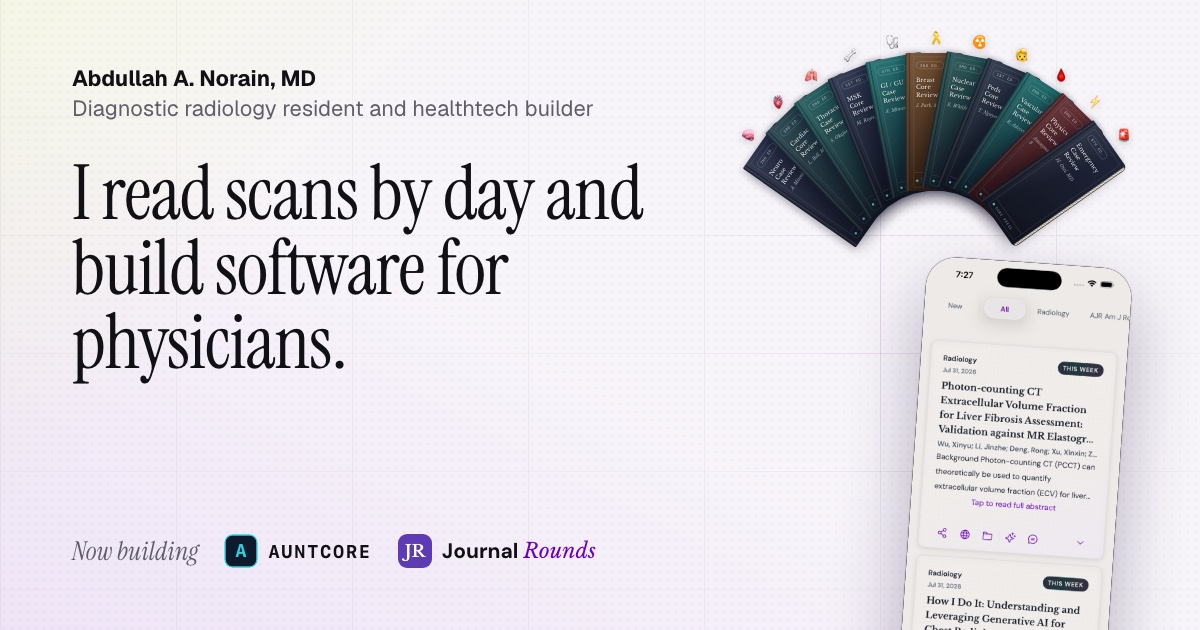
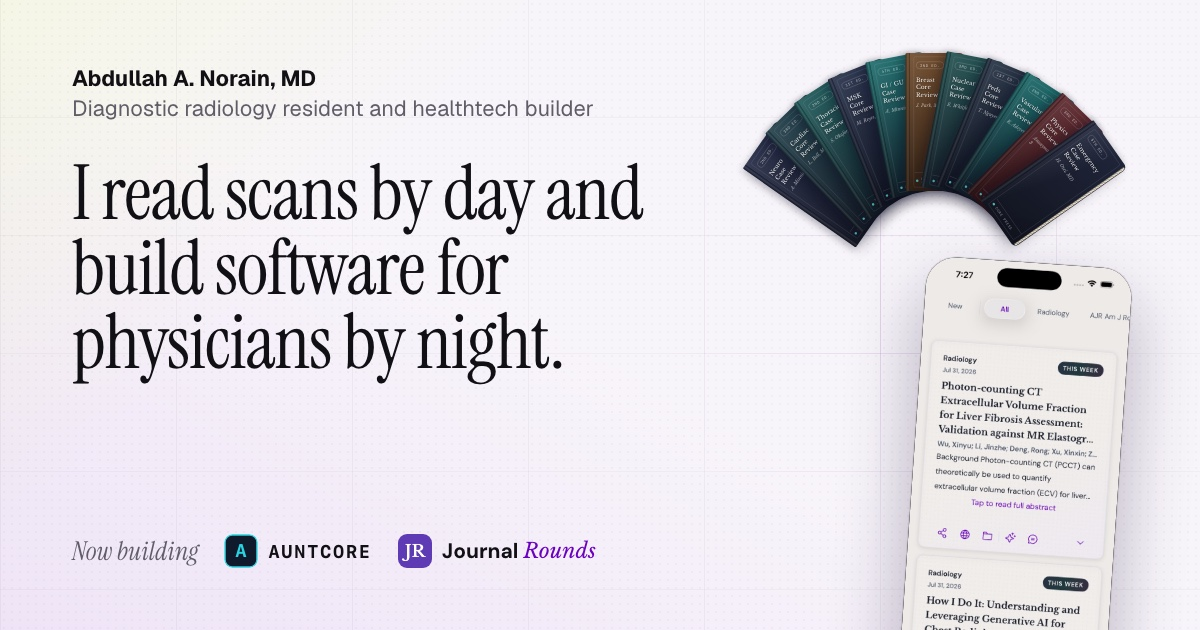
Say "by night" in the statement and drop emoji from the book fan

diff --git a/index.html b/index.html
@@ -19,12 +19,12 @@
 <meta property="og:locale" content="en_US">
 <meta property="og:title" content="Abdullah A. Norain, MD">
 <meta property="og:description" content="Diagnostic radiology resident and healthtech builder. Now building AuntCore and Journal Rounds.">
-<meta property="og:image" content="https://abdullahnorain.github.io/assets/og-image.jpg">
-<meta property="og:image:secure_url" content="https://abdullahnorain.github.io/assets/og-image.jpg">
+<meta property="og:image" content="https://abdullahnorain.github.io/assets/og-image.jpg?v=2">
+<meta property="og:image:secure_url" content="https://abdullahnorain.github.io/assets/og-image.jpg?v=2">
 <meta property="og:image:type" content="image/jpeg">
 <meta property="og:image:width" content="1200">
 <meta property="og:image:height" content="630">
-<meta property="og:image:alt" content="Abdullah A. Norain, MD. &quot;I read scans by day and build software for physicians.&quot; Now building AuntCore and Journal Rounds.">
+<meta property="og:image:alt" content="Abdullah A. Norain, MD. &quot;I read scans by day and build software for physicians by night.&quot; Now building AuntCore and Journal Rounds.">
 <meta property="profile:first_name" content="Abdullah">
 <meta property="profile:last_name" content="Norain">
 <meta name="twitter:card" content="summary_large_image">
@@ -32,8 +32,8 @@
 <meta name="twitter:creator" content="@AbdullahNorain">
 <meta name="twitter:title" content="Abdullah A. Norain, MD">
 <meta name="twitter:description" content="Diagnostic radiology resident and healthtech builder. Now building AuntCore and Journal Rounds.">
-<meta name="twitter:image" content="https://abdullahnorain.github.io/assets/og-image.jpg">
-<meta name="twitter:image:alt" content="Abdullah A. Norain, MD. &quot;I read scans by day and build software for physicians.&quot; Now building AuntCore and Journal Rounds.">
+<meta name="twitter:image" content="https://abdullahnorain.github.io/assets/og-image.jpg?v=2">
+<meta name="twitter:image:alt" content="Abdullah A. Norain, MD. &quot;I read scans by day and build software for physicians by night.&quot; Now building AuntCore and Journal Rounds.">
 <script type="application/ld+json">
 {
  "@context": "https://schema.org",
@@ -41,7 +41,7 @@
  "name": "Abdullah A. Norain",
  "honorificSuffix": "MD",
  "url": "https://abdullahnorain.github.io/",
- "image": "https://abdullahnorain.github.io/assets/og-image.jpg",
+ "image": "https://abdullahnorain.github.io/assets/og-image.jpg?v=2",
  "jobTitle": "Diagnostic Radiology Resident",
  "description": "Diagnostic radiology resident and incoming neuroradiology fellow who builds software for physicians.",
  "affiliation": {
@@ -110,7 +110,7 @@
     </nav>
   </header>
 <main>
-  <div class="hero"><p class="statement">I read scans by day and build software for physicians.</p></div>
+  <div class="hero"><p class="statement">I read scans by day and build software for physicians by night.</p></div>
   <section aria-labelledby="about-h">
     <h2 id="about-h" class="label">About</h2>
     <div class="about">

diff --git a/assets/products.js b/assets/products.js
@@ -45,7 +45,7 @@
       var slot = el('div', 'ac-fan-slot');
       slot.style.setProperty('--fan-angle', b[0] + 'deg');
       slot.style.setProperty('--fan-index', i);
-      slot.innerHTML = '<div class="ac-fan-hover-group"><span class="ac-fan-emoji" aria-hidden="true">' + b[1] + '</span>' +
+      slot.innerHTML = '<div class="ac-fan-hover-group">' +
         '<div class="ac-fan-book ' + b[2] + '"><div class="ac-fan-cover"><span class="ac-fan-frame"></span><span class="ac-fan-glare"></span>' +
         '<span class="ac-fan-edition">' + b[3] + '</span><span class="ac-fan-title">' + b[4] + '<br>' + b[5] + '</span>' +
         '<span class="ac-fan-author">' + b[6] + '</span><span class="ac-fan-publisher">' + b[7] + '</span></div></div></div>' +

diff --git a/style.css b/style.css
@@ -81,7 +81,7 @@ a { color: inherit; }
 .who-tag { margin: 0; color: var(--mute); }
 .links { display: flex; flex-wrap: wrap; gap: 8px; }
 .hero { padding: 40px 0 36px; }
-.hero .statement { margin: 0; font-family: var(--serif); font-weight: 400; font-size: clamp(44px, 8vw, 108px); line-height: .96; letter-spacing: -0.015em; max-width: 21ch; }
+.hero .statement { margin: 0; font-family: var(--serif); font-weight: 400; font-size: clamp(44px, 8vw, 108px); line-height: .96; letter-spacing: -0.015em; max-width: 21ch; text-wrap: balance; }
 @media (min-width: 900px) { .hero { padding: 64px 0 56px; } }
 
 /* ---------- Sections ---------- */

diff --git a/assets/og-source.html b/assets/og-source.html
@@ -43,7 +43,7 @@
 <div class="grid"></div>
 <div class="text">
   <p class="who"><b>Abdullah A. Norain, MD</b><span>Diagnostic radiology resident and healthtech builder</span></p>
-  <h1>I read scans by day and build software for physicians.</h1>
+  <h1>I read scans by day and build software for physicians by night.</h1>
 </div>
 <div class="fan ac-world ac-flat"><div class="ac-stage" data-ac-stage><div class="ac-fan-zone" data-ac-fan data-max-scale="0.5"></div></div></div>
 <div class="phone"><img src="jr-native-feed.jpg" alt=""></div>

diff --git a/docs/PROJECT.md b/docs/PROJECT.md
@@ -12,7 +12,7 @@ Audience: physicians, residents, collaborators, and people who find him on X or 
 
 The order below is a decision by the owner. Keep it.
 
-1. **Header and statement.** Name, the headline "Diagnostic radiology resident and healthtech builder.", X and LinkedIn buttons, and the line "I read scans by day and build software for physicians."
+1. **Header and statement.** Name, the headline "Diagnostic radiology resident and healthtech builder.", X and LinkedIn buttons, and the line "I read scans by day and build software for physicians by night."
 2. **About.** A short bio and an Interests list.
 3. **Now building.** AuntCore (web app) and Journal Rounds (iOS app). Each has a live demo ported from the product's own site, a description of what he built, and a button to the product.
 4. **Previously.** PeerCapsule, then Wellow.
